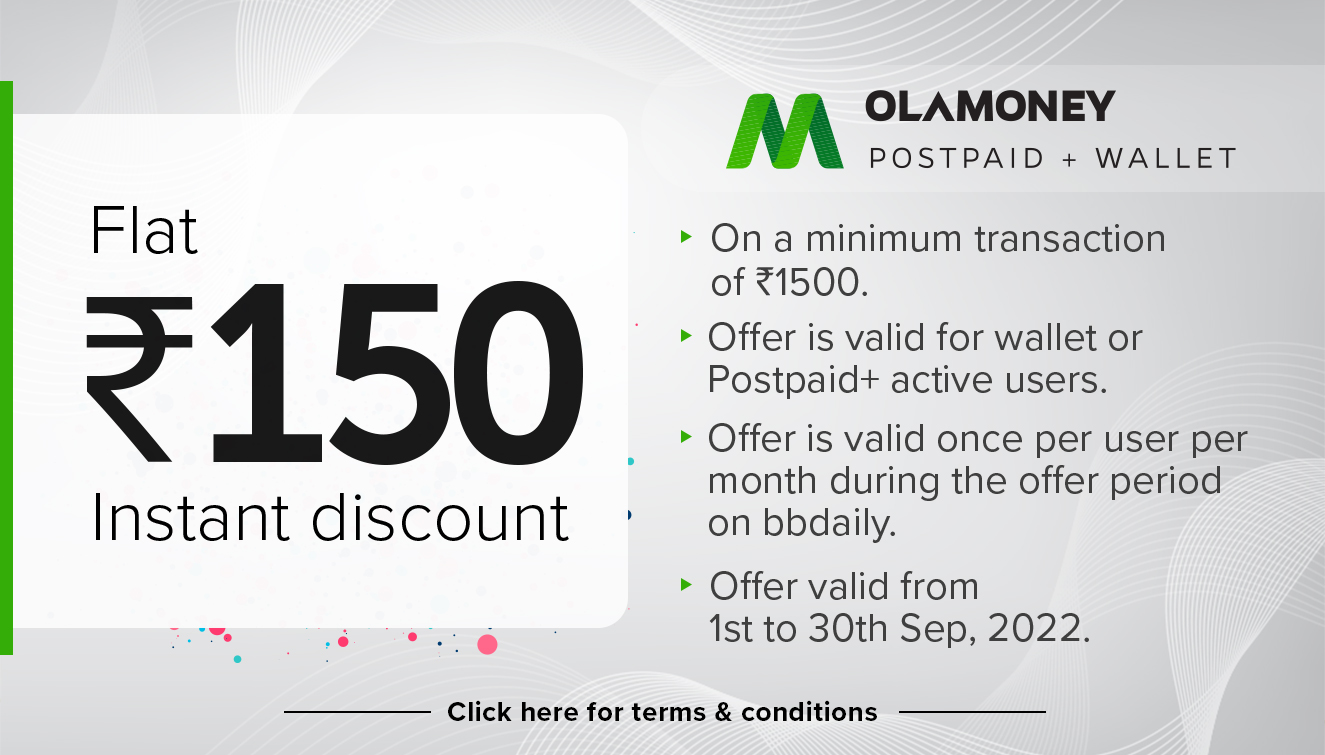
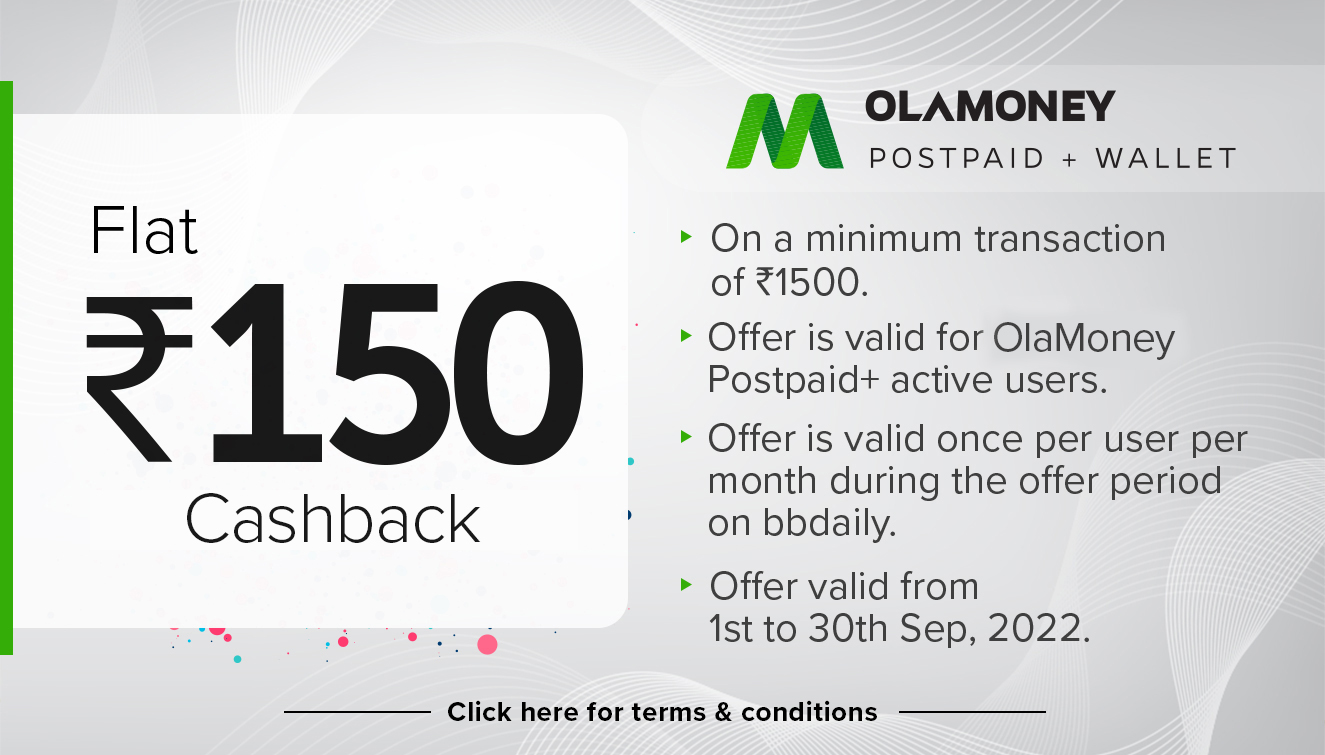
28Sep_bankOffers_footerLinks
1. Two new buttons will be added at the footer.
2. At the footer for the rename the Subscription Offer BB button to " Non-Milk Subscription Offers BB ".

Changed region(s): [[0.0619, 0.6397, 0.4332, 0.7311], [0.7426, 0.4265, 0.8974, 0.4874]]

diff --git a/frequencyCoupon.html b/frequencyCoupon.html
@@ -1,0 +1,163 @@
+<!DOCTYPE html>
+<html lang="en">
+
+<head>
+  <meta charset="utf-8" />
+  <meta name="viewport" content="width=device-width, initial-scale=1" />
+
+  <!-- <meta name="keywords" content="bigbasket,bbinstant,grocery,onlineshopping,smartstore,cashlesstore,widerange,fresh,daily,milk,fruits,vegetables,dairy,snacks,beverages,apartments,corporate,corporates,company,companies">-->
+  <meta name="description"
+    content="bigbasket introduces bbdaily, Your online daily milk delivery app. Buy or subscribe now on bbdaily, order fresh milk, bread, eggs, dairy, snacks & beverages, fruits & vegetables, baby care and get it home delivered everyday before 7AM." />
+  <!-- <meta name="author" content="Haroon">-->
+
+  <title>
+    Online Milk Delivery, Buy Fresh Milk & Daily Needs to Home - bbdaily from
+    bigbasket
+  </title>
+  <link rel="stylesheet" href="https://maxcdn.bootstrapcdn.com/bootstrap/4.0.0/css/bootstrap.min.css" />
+  <script src="https://ajax.googleapis.com/ajax/libs/jquery/3.3.1/jquery.min.js"></script>
+  <script src="https://cdnjs.cloudflare.com/ajax/libs/popper.js/1.12.9/umd/popper.min.js"></script>
+  <script src="https://maxcdn.bootstrapcdn.com/bootstrap/4.0.0/js/bootstrap.min.js"></script>
+  <script src="https://use.fontawesome.com/releases/v5.0.8/js/all.js"></script>
+  <link href="../../style.css" rel="stylesheet" />
+
+  <link rel="icon" type="image/ico" href="../../img/bbdailylogo.webp" />
+  <link rel="canonical" href="https://www.bbdaily.com/" />
+
+  <style>
+    html,
+    body {
+      background-color: #f2f2f2;
+    }
+
+    strong {
+      font-weight: bold;
+      color: red;
+    }
+
+    @media screen and (max-width: 1000px) {
+      input {
+        font-size: 9.8px;
+      }
+    }
+
+    @media screen and (max-width: 1000px) {
+      input {
+        font-size: 9px;
+      }
+    }
+  </style>
+  <script>
+    $(document).ready(function () {
+      $(".navbar-nav li a").click(function (event) {
+        $(".navbar-collapse").collapse("hide");
+      });
+    });
+  </script>
+  <script async src="https://www.googletagmanager.com/gtag/js?id=UA-143613964-1"></script>
+  <script>
+    window.dataLayer = window.dataLayer || [];
+    function gtag() {
+      dataLayer.push(arguments);
+    }
+    gtag("js", new Date());
+    gtag("config", "UA-143613964-1");
+  </script>
+</head>
+
+<body>
+  <!-- Navigation -->
+
+  <nav class="navbar navbar-expand-md navbar-light bg-white fixed-top">
+    <button class="navbar-toggler" data-toggle="collapse" data-target="#collapse_target">
+      <span class="navbar-toggler-icon"></span>
+    </button>
+
+    <div class="navbar-header">
+      <a class="navbar-brand img-fluid" href="../../index.html"><img src="../../img/logo.png"
+          style="max-width: 170px; max-height: 120px" alt="bbdailylogo" /></a>
+    </div>
+
+    <div class="collapse navbar-collapse" id="collapse_target">
+      <ul class="navbar-nav ml-auto mr-5">
+        <li class="nav-item">
+          <a class="nav-link pr-3" href="../../index.html"> Home</a>
+        </li>
+       
+      </ul>
+    </div>
+  </nav>
+  <div class="container">
+    <div class="row">
+      <div class="col-12 text-center" style="padding-top: 10%">
+        <h1>Terms and Conditions</h1>
+        <p class="text-left" style="padding-top: 5%; font-weight: normal; font-size: 16px">
+          <strong>
+            bbdaily
+          </strong>
+          <br />
+          • Offer applicable only on a selected list of products across all categories on subscription <br>
+          • The offer applicable for all bbdaily customers<br>
+          • 1 free order of the subscribed product after every 4 orders. So every 5th
+          order is free. eg: (Paid-Paid-Paid-Paid-FREE)<br>
+          • The Coupon is not applicable on 'Buy Once'<br>
+          • The maximum number of free products for any chosen subscription
+          product is 6 quantities in total per coupon application.<br>
+
+          • A customer can apply the BBDaily coupon up to 100 times<br>
+          • This subscription coupon offer becomes void if the user unsubscribes from
+          any product once the coupon is applied<br>
+          • The free quantity remaining for the subscription can be viewed from the
+          ‘my subscription’ section on the app<br>
+          • Free delivery schedule - 5th, 10th, 15th, 20th, 25th, 30th delivery for the
+          subscription. (Please note that the first delivery is not free)<br>
+        </p>
+
+        <p class="text-left" style="padding-top: 5%; font-weight: normal; font-size: 16px">
+          <strong>
+            bbAlternate
+          </strong>
+          <br />
+          • Offer applicable only on a selected list of products across all categories on
+          subscription<br>
+          • The offer is applicable for all bbdaily customers<br>
+          • You get 1 free order of the subscribed product after every 4 orders. So every
+          5th order is free. eg: (Paid-Paid-Paid-Paid-FREE)<br>
+          • The Coupon is not applicable on 'Buy Once'<br>
+          • The maximum number of free products for any chosen subscription product is 6
+          quantities in total per coupon application.<br>
+
+          • A customer can apply the BBAlternate coupon up to 100 times<br>
+          • This subscription coupon offer becomes void if the user unsubscribes from any
+          product once the coupon is applied<br>
+          • The free quantity remaining for the subscription can be viewed from the ‘my
+          subscription’ section on the app<br>
+          • Free delivery schedule - 5th, 10th, 15th, 20th, 25th, 30th delivery for the
+          subscription. (Please note that the first delivery is not free)<br>
+        </p>
+
+        <p class="text-left" style="padding-top: 5%; font-weight: normal; font-size: 16px">
+          <strong>
+            bbWeekly
+          </strong>
+          <br />
+          • Offer applicable only on a selected list of products across all categories on subscription <br>
+          • The offer is applicable for all bbdaily customers<br>
+          • You get 1 free order of the subscribed product after every 4 orders. So, every 5th order is free. eg: (Paid-Paid-Paid-Paid-FREE)<br>
+          • The Coupon is not applicable on 'Buy Once'<br>
+          • The maximum number of free products for any chosen subscription product is 6 quantities in total per coupon application.<br>
+          
+          • A customer can apply the BBWeekly coupon up to 100 times<br>
+          • This subscription coupon offer becomes void if the user unsubscribes from any product once the coupon is applied<br>
+          • The free quantity remaining for the subscription can be viewed from the ‘my subscription’ section on the app<br>
+          • Free delivery schedule - 5th, 10th, 15th, 20th, 25th, 30th delivery for the subscription.
+          (Please note that the first delivery is not free)<br>
+        </p>
+      </div>
+    </div>
+  </div>
+</body>
+
+
+
+</html>

diff --git a/index.html b/index.html
@@ -484,7 +484,9 @@
       <!-- <a class="" href="mango.html">Mango Store</a> | -->
       <a class="" href="tnc.html">Terms & Conditions</a> |
       <a class="" href="subscriptionnew.html">Subscription Offers (New Users)</a> |
-      <a class="" href="subscriptionbb.html">Subscription Offers BB</a> |
+      <a class="" href="subscriptionbb.html">Non-Milk Subscription Offers BB</a> |
+      <a class="" href="frequencyCoupon.html">Frequency Coupons</a> |
+      <a class="" href="subscriptionbb.html">Brand Subscription Offers</a> |
       <!-- <a class="" href="christmas.html">Christmas Store</a>  -->
       <!-- <a class="" href="kolkataoffer1.html">Kolkata Offer 1</a> |
       <a class="" href="kolkataoffer2.html">Kolkata Offer 2</a> | -->
@@ -587,7 +589,13 @@
               <a class="" href="subscriptionnew.html">Subscription Offers (New Users)</a>
             </div>
             <div class="row footer-text">
-              <a class="" href="subscriptionbb.html">Subscription Offers BB</a>
+              <a class="" href="subscriptionbb.html">Non-Milk Subscription Offers BB</a>
+            </div>
+            <div class="row footer-text">
+              <a class="" href="frequencyCoupon.html">Frequency Coupons</a>
+            </div>
+            <div class="row footer-text">
+              <a class="" href="subscriptionbb.html">Brand Subscription Offers</a>
             </div>
 
             <!-- <div class="row footer-text">
@@ -601,6 +609,7 @@
               <a class="" href="box.html">bbdaily Box</a>
             </div>
           </div>
+          
 
           <div class="col-md-3 pt-5">
             <b style="font-weight: 700">Cities we serve</b>

diff --git a/grouphtmls/bankoffer/ola.html b/grouphtmls/bankoffer/ola.html
@@ -95,13 +95,13 @@
         <h1>Terms and Conditions</h1>
         <p class="text-left" style="padding-top: 5%; font-weight: normal; font-size: 16px">
           <strong>
-            Get flat discount of Rs.150/- on minimum order Rs.1500/-
+            Get flat Rs.150/- cashback on minimum order Rs.1500/-
           </strong>
           <br />
           <br />
               1. Offer is valid once per user per month during the offer period on bbdaily using Ola Money Postpaid+. <br>
               2. Offer is valid from 1st to 30th September 2022. <br>
-              3. Offer is valid once on OlaMoney Postpaid+ transactions only. <br>
+              3. Offer is valid for OlaMoney Postpaid+ active users. <br>
               4. Offer is not applicable for postpaid plus users who have not cleared dues beyond their due dates. <br>
               5. Offer is exclusive to you and intended for your use only. <br>
               6. Cashback will be credited within 10 working days to your active OlaMoney Postpaid+ or Wallet account. <br>

diff --git a/grouphtmls/subscriptionofferbb/fresho.html b/grouphtmls/subscriptionofferbb/fresho.html
@@ -121,7 +121,7 @@
           • There will be one free product delivery of the subscribed product after every four paid deliveries. <br>
           So every 5th product is free. eg: (Paid-Paid-Paid-Paid-FREE). <br>
           • The maximum number of free products for any chosen subscription product is 6 quantities in total. <br>
-          • A customer can apply the FOFRESHO6 coupon on 3 different products. <br>
+          • A customer can apply the BBDFRESHO6 coupon on 3 different products. <br>
           • The coupon is applicable only on DAILY, ALTERNATE DAY & WEEKLY subscription frequencies. The coupon is not applicable on 'Buy Once' and once a month subscription. <br>
           • This subscription coupon offer becomes void if the user unsubscribes from any product once the coupon is applied. <br>
           • The free quantity remaining for the subscription can be viewed from the ‘My subscription’ section on the app. <br>

diff --git a/grouphtmls/subscriptionoffer/fresho.html b/grouphtmls/subscriptionoffer/fresho.html
@@ -121,7 +121,7 @@
           • There will be one free product delivery of the subscribed product after every four paid deliveries. <br>
           So every 5th product is free. eg: (Paid-Paid-Paid-Paid-FREE). <br>
           • The maximum number of free products for any chosen subscription product is 6 quantities in total. <br>
-          • A customer can apply the BBDFRESHO6 coupon on 3 different products. <br>
+          • A customer can apply the FRESHO6 coupon on 3 different products. <br>
           • The coupon is applicable only on DAILY, ALTERNATE DAY & WEEKLY subscription frequencies. The coupon is not applicable on 'Buy Once' and once a month subscription. <br>
           • This subscription coupon offer becomes void if the user unsubscribes from any product once the coupon is applied. <br>
           • The free quantity remaining for the subscription can be viewed from the ‘My subscription’ section on the app. <br>

diff --git a/grouphtmls/subscriptionofferbb/curd.html b/grouphtmls/subscriptionofferbb/curd.html
@@ -121,7 +121,7 @@
           • There will be one free product delivery of the subscribed product after every four paid deliveries. <br>
           So every 5th product is free. eg: (Paid-Paid-Paid-Paid-FREE). <br>
           • The maximum number of free products for any chosen subscription product is 6 quantities in total. <br>
-          • A customer can apply the FOCURD6 coupon on 3 different products. <br>
+          • A customer can apply the BBDCURD6 coupon on 3 different products. <br>
           • The coupon is applicable only on DAILY, ALTERNATE DAY & WEEKLY subscription frequencies. The coupon is not applicable on 'Buy Once' and once a month subscription. <br>
           • This subscription coupon offer becomes void if the user unsubscribes from any product once the coupon is applied. <br>
           • The free quantity remaining for the subscription can be viewed from the ‘My subscription’ section on the app. <br>

diff --git a/grouphtmls/subscriptionoffer/curd.html b/grouphtmls/subscriptionoffer/curd.html
@@ -121,7 +121,7 @@
           • There will be one free product delivery of the subscribed product after every four paid deliveries. <br>
           So every 5th product is free. eg: (Paid-Paid-Paid-Paid-FREE). <br>
           • The maximum number of free products for any chosen subscription product is 6 quantities in total. <br>
-          • A customer can apply the BBDCURD6 coupon on 3 different products. <br>
+          • A customer can apply the CURD6 coupon on 3 different products. <br>
           • The coupon is applicable only on DAILY, ALTERNATE DAY & WEEKLY subscription frequencies. The coupon is not applicable on 'Buy Once' and once a month subscription. <br>
           • This subscription coupon offer becomes void if the user unsubscribes from any product once the coupon is applied. <br>
           • The free quantity remaining for the subscription can be viewed from the ‘My subscription’ section on the app. <br>

diff --git a/grouphtmls/subscriptionofferbb/pot.html b/grouphtmls/subscriptionofferbb/pot.html
@@ -121,7 +121,7 @@
           • There will be one free product delivery of the subscribed product after every four paid deliveries. <br>
           So every 5th product is free. eg: (Paid-Paid-Paid-Paid-FREE). <br>
           • The maximum number of free products for any chosen subscription product is 6 quantities in total. <br>
-          • A customer can apply the FOPOT6 coupon on 3 different products. <br>
+          • A customer can apply the BBDPOT6 coupon on 3 different products. <br>
           • The coupon is applicable only on DAILY, ALTERNATE DAY & WEEKLY subscription frequencies. The coupon is not applicable on 'Buy Once' and once a month subscription. <br>
           • This subscription coupon offer becomes void if the user unsubscribes from any product once the coupon is applied. <br>
           • The free quantity remaining for the subscription can be viewed from the ‘My subscription’ section on the app. <br>

diff --git a/grouphtmls/subscriptionoffer/pot.html b/grouphtmls/subscriptionoffer/pot.html
@@ -121,7 +121,7 @@
           • There will be one free product delivery of the subscribed product after every four paid deliveries. <br>
           So every 5th product is free. eg: (Paid-Paid-Paid-Paid-FREE). <br>
           • The maximum number of free products for any chosen subscription product is 6 quantities in total. <br>
-          • A customer can apply the BBDPOT6 coupon on 3 different products. <br>
+          • A customer can apply the POT6 coupon on 3 different products. <br>
           • The coupon is applicable only on DAILY, ALTERNATE DAY & WEEKLY subscription frequencies. The coupon is not applicable on 'Buy Once' and once a month subscription. <br>
           • This subscription coupon offer becomes void if the user unsubscribes from any product once the coupon is applied. <br>
           • The free quantity remaining for the subscription can be viewed from the ‘My subscription’ section on the app. <br>

diff --git a/grouphtmls/subscriptionofferbb/coconut.html b/grouphtmls/subscriptionofferbb/coconut.html
@@ -121,7 +121,7 @@
           • There will be one free product delivery of the subscribed product after every four paid deliveries. <br>
           So every 5th product is free. eg: (Paid-Paid-Paid-Paid-FREE). <br>
           • The maximum number of free products for any chosen subscription product is 6 quantities in total. <br>
-          • A customer can apply the FOTC6 coupon on 3 different products. <br>
+          • A customer can apply the BBDTC6 coupon on 3 different products. <br>
           • The coupon is applicable only on DAILY, ALTERNATE DAY & WEEKLY subscription frequencies. The coupon is not applicable on 'Buy Once' and once a month subscription. <br>
           • This subscription coupon offer becomes void if the user unsubscribes from any product once the coupon is applied. <br>
           • The free quantity remaining for the subscription can be viewed from the ‘My subscription’ section on the app. <br>

diff --git a/grouphtmls/subscriptionofferbb/cutfruits.html b/grouphtmls/subscriptionofferbb/cutfruits.html
@@ -121,7 +121,7 @@
           • There will be one free product delivery of the subscribed product after every four paid deliveries. <br>
           So every 5th product is free. eg: (Paid-Paid-Paid-Paid-FREE). <br>
           • The maximum number of free products for any chosen subscription product is 6 quantities in total. <br>
-          • A customer can apply the FOCF6 coupon on 3 different products. <br>
+          • A customer can apply the BBDCF6 coupon on 3 different products. <br>
           • The coupon is applicable only on DAILY, ALTERNATE DAY & WEEKLY subscription frequencies. The coupon is not applicable on 'Buy Once' and once a month subscription. <br>
           • This subscription coupon offer becomes void if the user unsubscribes from any product once the coupon is applied. <br>
           • The free quantity remaining for the subscription can be viewed from the ‘My subscription’ section on the app. <br>

diff --git a/grouphtmls/subscriptionofferbb/cutveg.html b/grouphtmls/subscriptionofferbb/cutveg.html
@@ -121,7 +121,7 @@
           • There will be one free product delivery of the subscribed product after every four paid deliveries. <br>
           So every 5th product is free. eg: (Paid-Paid-Paid-Paid-FREE). <br>
           • The maximum number of free products for any chosen subscription product is 6 quantities in total. <br>
-          • A customer can apply the FOCV6 coupon on 3 different products. <br>
+          • A customer can apply the BBDCV6 coupon on 3 different products. <br>
           • The coupon is applicable only on DAILY, ALTERNATE DAY & WEEKLY subscription frequencies. The coupon is not applicable on 'Buy Once' and once a month subscription. <br>
           • This subscription coupon offer becomes void if the user unsubscribes from any product once the coupon is applied. <br>
           • The free quantity remaining for the subscription can be viewed from the ‘My subscription’ section on the app. <br>
